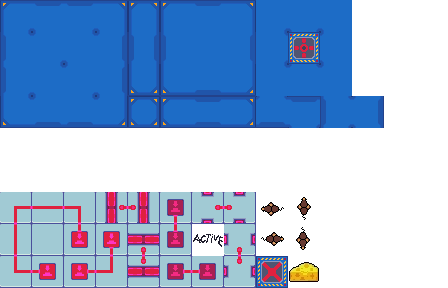
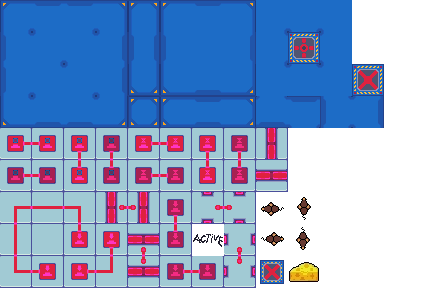
tutorial versiune finala --mapa

Changed region(s): [[0.0, 0.4375, 0.6562, 0.6875], [0.7812, 0.2188, 0.875, 0.3438], [0.5625, 0.875, 0.6562, 1.0]]

diff --git a/src/PaooGame/States/PlayerNameDialog.java b/src/PaooGame/States/PlayerNameDialog.java
@@ -1,9 +1,11 @@
 package PaooGame.States;
 
 import javax.swing.*;
+import java.awt.*;
+
 public class PlayerNameDialog
 {
-    public static String show()
+    public static String show(Component parent)
     {
         String name = JOptionPane.showInputDialog(
                 null,
@@ -13,6 +15,6 @@ public class PlayerNameDialog
         );
         if(name != null && !name.trim().isEmpty())
             return name.trim();
-        return null;  // player a dat Cancel
+        return null;
     }
 }

diff --git a/src/PaooGame/States/Menu.java b/src/PaooGame/States/Menu.java
@@ -42,9 +42,10 @@ public class Menu
     private final int[]    lbScores = {260, 180, 120};
 
     private int hoveredBtn = -1;
-
+    private final Canvas canvas;
     public Menu(Canvas canvas, int wndWidth, int wndHeight)
     {
+        this.canvas = canvas;
         BufferedImage tmp = null;
         try {
             File f = new File("materials/meniu.png");
@@ -101,7 +102,7 @@ public class Menu
         switch(getHoveredButton(mx, my, wndW, wndH))
         {
             case 0:
-                String name = PlayerNameDialog.show();
+                String name = PlayerNameDialog.show(canvas);
                 if(name != null)
                 {
                     currentPlayerName = name;

diff --git a/src/PaooGame/Tiles/FloorTile.java b/src/PaooGame/Tiles/FloorTile.java
@@ -11,7 +11,7 @@ public class FloorTile extends Tile
     /*! \fn public FloorTile(int id)
         \brief Constructorul de initializare al clasei.
 
-        \param id Id-ul dalei util in desenarea hartii.
+        param id Id-ul dalei util in desenarea hartii.
      */
     public FloorTile(int id)
     {